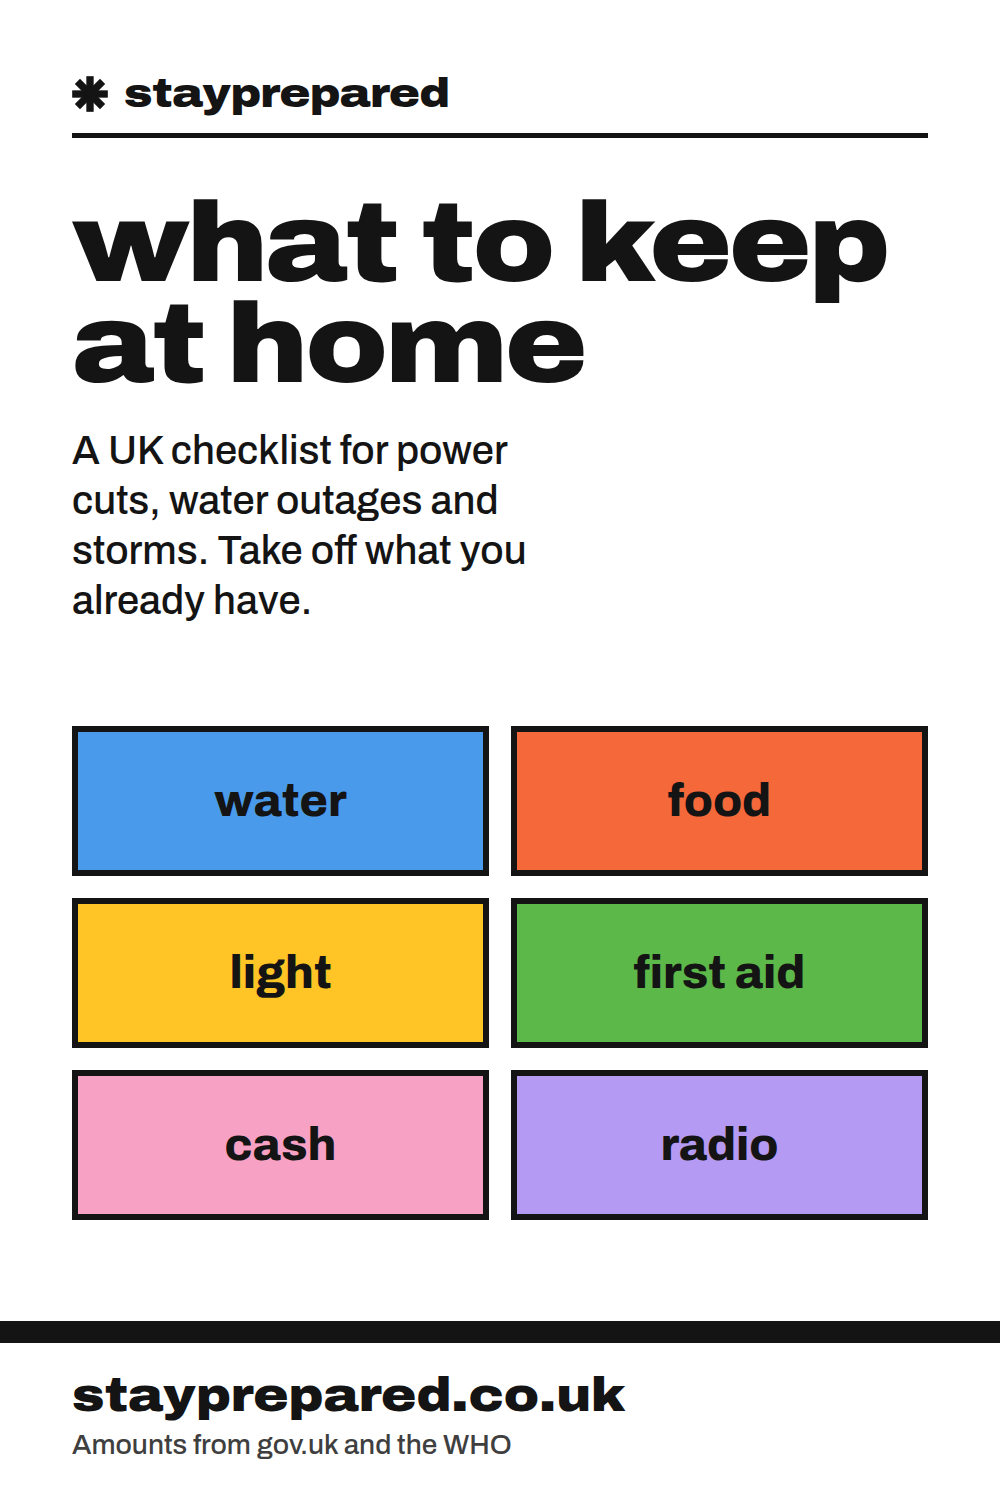
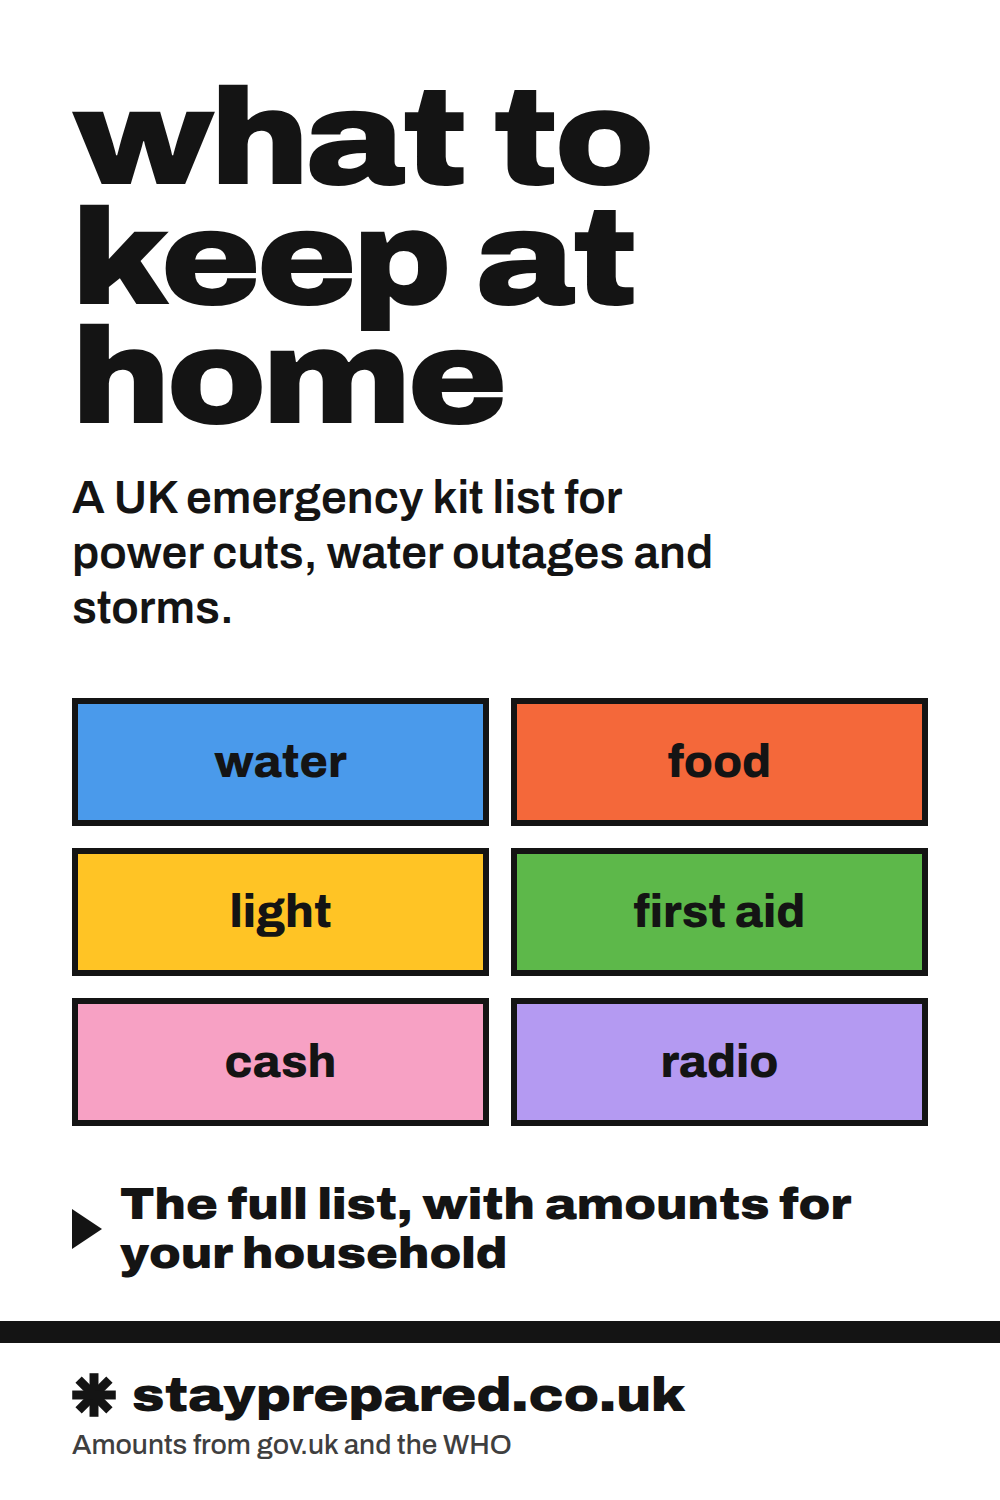
Redraw the Pinterest pins for the feed; add grab bag and flood pins
From a design and copy review of the pins:
- the lockup moves small into the footer, and headlines grow from 112
  to 136px;
- pins that name water, food or power fill with that category colour, so
  the set no longer reads as eight white slabs;
- each pin ends with a line saying what the page adds;
- facts now match the pages: water is for at least 3 days, the phone
  charging tip is for amber or red, the unsourced "10 minutes" is gone,
  the clocks-change checks follow faq.ts, and the Priority Services pin
  names everyone who can join, including people on powered medical
  equipment;
- the weather warnings pin shows the Met Office colours, recorded in
  DESIGN.md as the one exception to the Label Rule.

New: 09-grab-bag and 10-flood-warning.

Claude-Session: https://claude.ai/code/session_01MzNVUbnaK5G4TG6VRBN1pe

Changed region(s): [[0.062, 0.46, 0.93, 0.8587], [0.062, 0.0307, 0.93, 0.4293], [0.062, 0.92, 0.682, 0.9507]]

diff --git a/DESIGN.md b/DESIGN.md
@@ -246,7 +246,7 @@ A bold underlined text link ending in the arrow, 44px tall, width 110. Hover thi
 ### Logo
 Adopted 25 September 2026. The mark is an **asterisk of four square-ended bars** (each 14.651 by 71.263, rotated 0, 45, 90 and 135 degrees about one centre), the site's own mark, drawn by the owner (Figma frame "Cross"). It sits to the left of the words, closed up to match the web address: **✱stayprepared** (changed from two words on 25 September 2026), at 0.85em, centred on the line, 0.3em from the s. It is always one colour, `currentColor`: ink on paper, paper on the ink footer, never a category colour. `components/Wordmark.tsx` holds both the lockup and the bare `Asterisk`. The closed-up spelling is for the lockup only: in sentences, titles and metadata the name stays "Stay Prepared", and the lockup gives screen readers "Stay Prepared" as hidden text.
 
-- **Share image:** `app/opengraph-image.png`, drawn by `scripts/og.mjs`. **Pins:** `public/pins/`, drawn by `scripts/pins.mjs`. Both carry the lockup; rerun them after changing it.
+- **Share image:** `app/opengraph-image.png`, drawn by `scripts/og.mjs`. **Pins:** `public/pins/`, drawn by `scripts/pins.mjs`. Both carry the lockup; rerun them after changing it. Pins (revised 26 September 2026) put the lockup small in the footer, not at the top; a pin that names water, food or power fills with that category colour, the rest are ink on paper; each ends with one line saying what the linked page adds. The weather warnings pin shows the Met Office's yellow, amber and red as named swatches: the one exception to the Label Rule, because they are official colours and the pin means nothing without them. They appear nowhere else.
 
 - **Favicon:** `app/icon.svg`, the bare asterisk in ink, switching to paper when the browser is dark. `app/favicon.ico` (16, 32, 48) and `app/icon.png` are the fallbacks, drawn by `scripts/icons.mjs` from `public/brand/mark.svg`; rerun it after changing the mark.
 - **Home screen:** `app/apple-icon.png`, 180px, ink asterisk on paper, drawn by the same script.
